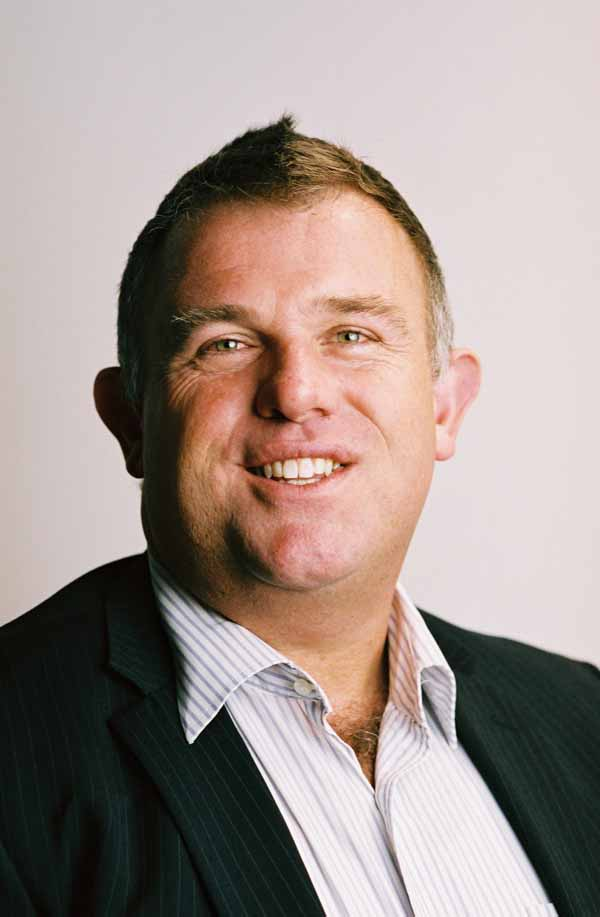
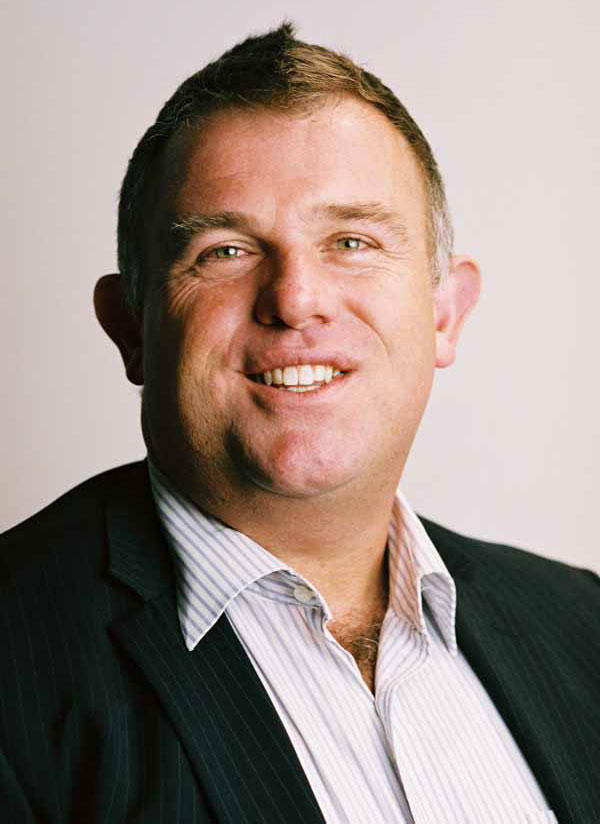
Changed centre candidate images to top

Changed region(s): [[0.0, 0.0303, 1.0, 1.0], [0.21, 0.6978, 0.24, 0.7282]]

diff --git a/_includes/candidates/candidate-card.html b/_includes/candidates/candidate-card.html
@@ -6,7 +6,7 @@
 
 <div class="px2 mb4 sm-col-6 md-col-4">
   <a href="{{include.url}}" class="height-4 overflow-hidden bg-gray mb2 block"
-       style="background: url(/img/candidates/small/{{include.title | slugify }}.jpg) no-repeat center center; background-size: cover" >
+       style="background: url(/img/candidates/small/{{include.title | slugify }}.jpg) no-repeat top center; background-size: cover" >
   </a>
   <!-- TODO: merge state and region? -->
   <h5 class="h4"><span class="gray">{{include.state}}{{include.region}}</span> / <span class="bold">{{include.house}}</span></h5>

diff --git a/_layouts/candidate.html b/_layouts/candidate.html
@@ -18,7 +18,7 @@ dark-theme: true
 
       <div class="flex flex-wrap mb3">
         <div class="square-1 overflow-hidden circle overflow-hidden bg-gray mb2 bg-black mr3"
-             style="background: url({{base}}/img/candidates/small/{{page.title | slugify }}.jpg) no-repeat center center; background-size: cover" >
+             style="background: url({{base}}/img/candidates/small/{{page.title | slugify }}.jpg) no-repeat top center; background-size: cover" >
         </div>
         <div class="flex-auto self-center">
           <hr class="border-bottom light-gray">

diff --git a/candidates.html b/candidates.html
@@ -53,7 +53,7 @@ dark-theme: true
 <div class="bg-white py4">
   <div class="mx-auto max-width-4 px2">
     <div class="sm-flex flex-wrap mxn2 sm-pr4 dark-gray">
-      {% assign candidates =  site.candidates |  where: "lead", nil %}
+      {% assign candidates =  site.candidates |  where: "lead", false %}
       {% for candidate in candidates %}
         {% if candidate.hide == nil  %}
           {% capture snippet %} {{ candidate.bio | first | truncatewords: 50 }} {% endcapture %}
